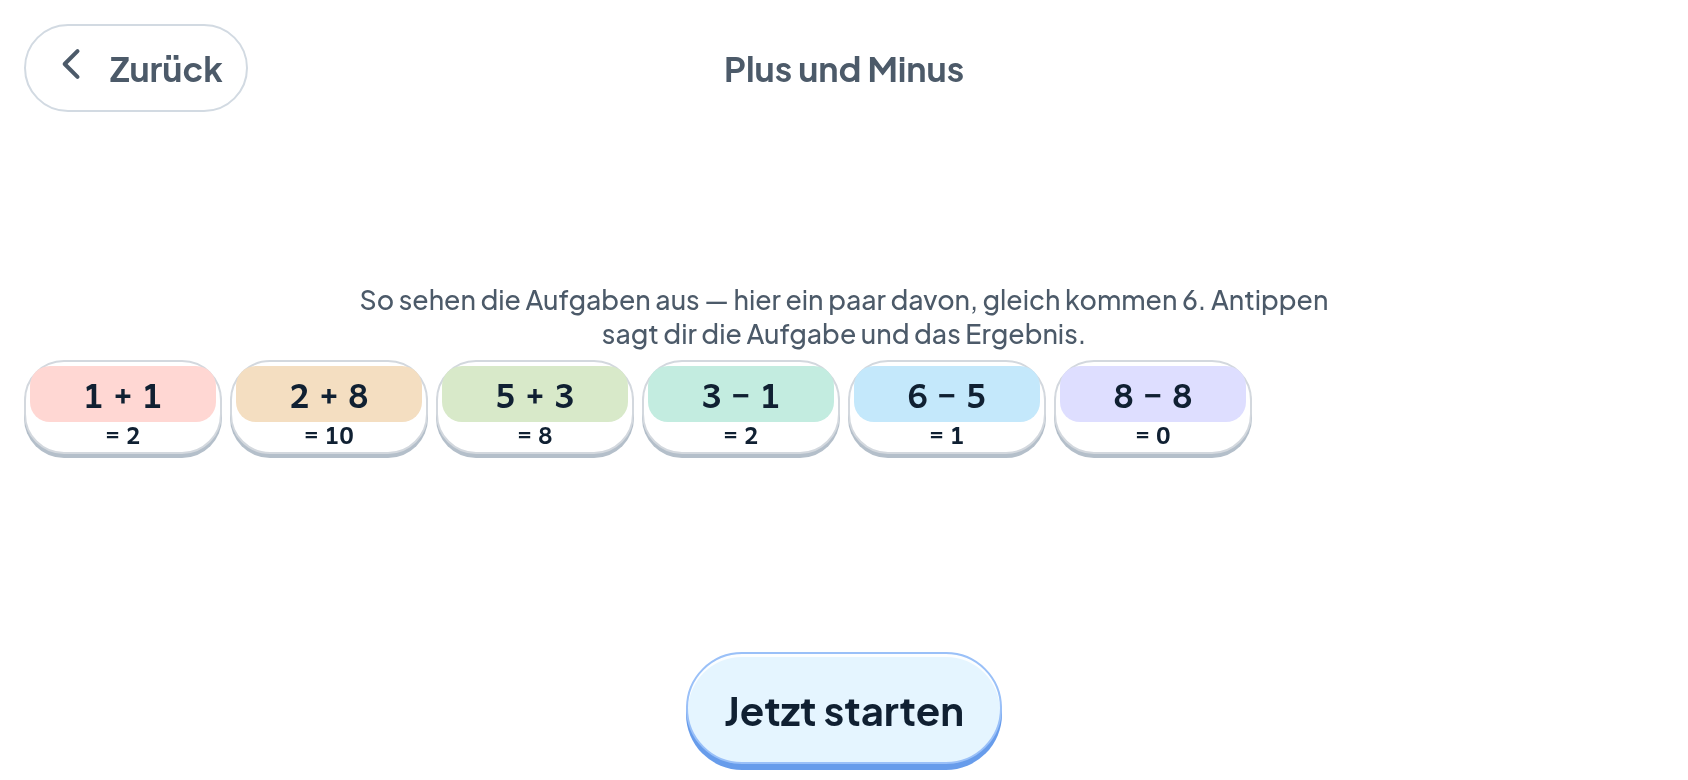
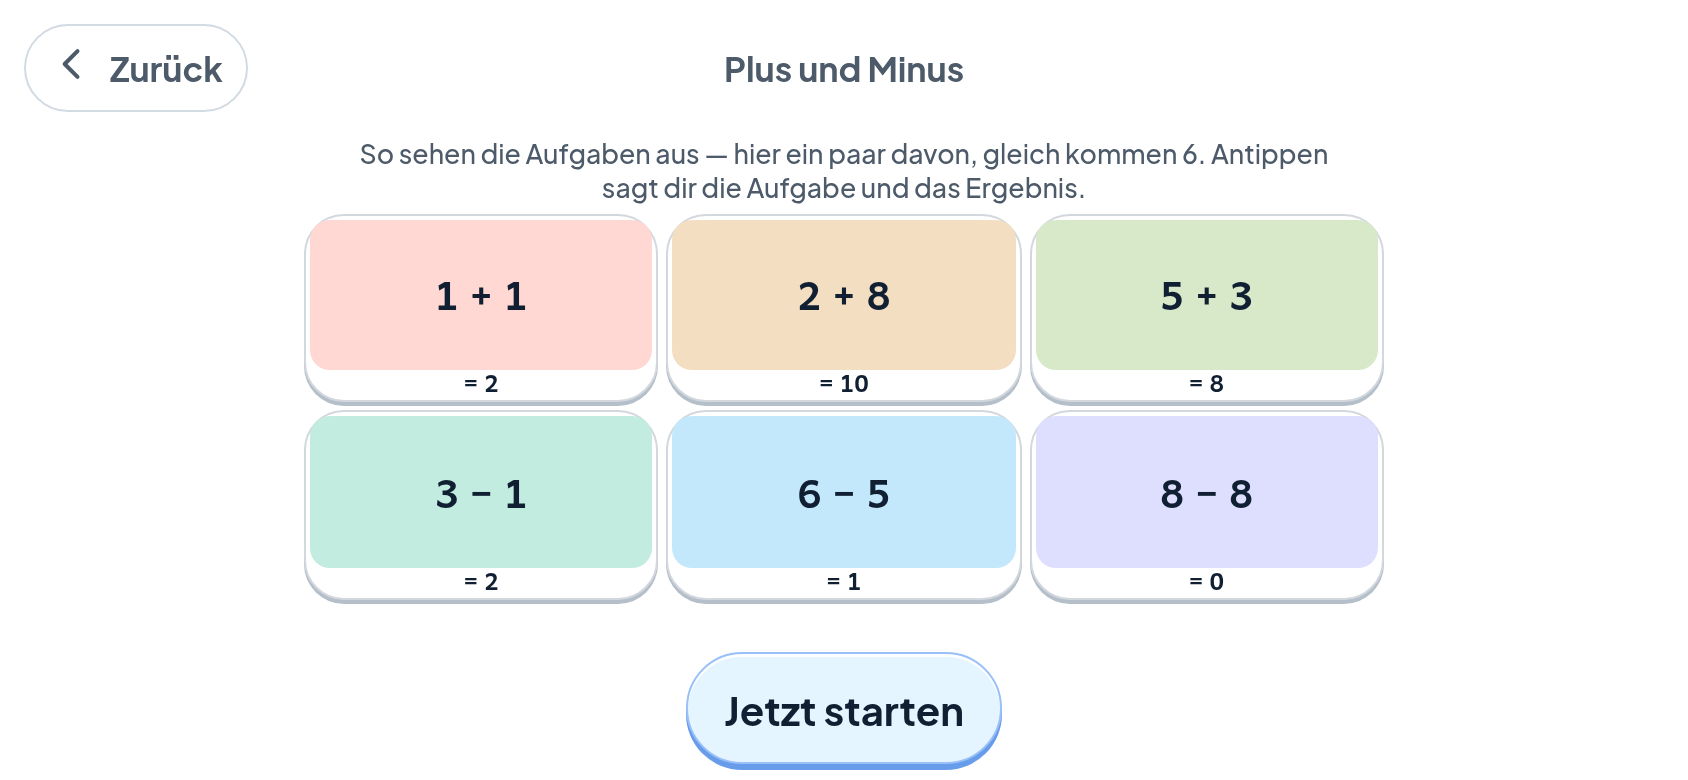
Was einmal geschafft war, bleibt geschafft — und der Vorlauf füllt sein Band
Aufkleber, Sterne, Fortschrittsbalken und Fionas zweite Kontinentrunde
lasen alle das LAUFENDE Leitner-Fach. Das faellt bei jeder falschen
Antwort auf 1 zurueck — richtig fuer die Wiederholung, falsch fuer alles,
was ueber die Vergangenheit spricht. Gemessen an einem Jahr Spiel (208
Sitzungen, vier die Woche, 85 % richtig):

  Aufkleber, die wieder aus dem Buch fielen   122 bis 251 je Ebene
  Sitzungen, in denen einer verschwand         47 bis 74 von 208
  Sitzungen mit wieder verschlossener Runde 2  47 von 208

Dazu meldete der Endbildschirm denselben Aufkleber ein zweites Mal als
neu. Jetzt traegt der Leitner-Stand `hoechstes`: die hoechste je
erreichte Fachhoehe, die nie faellt. Der Haken auf der Karte bleibt am
heutigen Fach — er sagt „sitzt", nicht „sass".

Und der Vorlauf: die Spaltenzahl kommt aus der Zahl der Karten, die
Reihen teilen sich die Hoehe des Bandes. Sechs Rechenaufgaben standen
linksbuendig in einer Reihe von acht Spuren, mit einem Loch von
vierhundert Punkten rechts und je einem Drittel leerem Band darueber und
darunter.

Claude-Session: https://claude.ai/code/session_01GwecUQxeRqJxKHLkGsVrjv

Changed region(s): [[0.0, 0.1846, 0.8318, 0.8]]

diff --git a/prototyp/vorlage.html b/prototyp/vorlage.html
@@ -188,10 +188,54 @@ body{background:linear-gradient(168deg,var(--grund) 0%,var(--grund-2) 100%);
    Stadtstaaten-Satz stand bei den Hauptstaedten halb ueber dem oberen
    Rand. `safe` faellt in dem Fall auf `flex-start` zurueck. */
 .rollen.vorlauf{display:flex;flex-direction:column;gap:var(--r3);
-  align-items:center;justify-content:safe center}
+  align-items:center;justify-content:safe center;
+  /* Die Hoechstmasse EINER Beispielkarte - ungefaehr quadratisch, die Form
+     eines Aufklebers. Das Gitter rechnet daraus seine eigenen
+     Hoechstmasse; gedeckelt wird also das Gitter, nicht die Karte. Der
+     Versuch, die Karte selbst zu deckeln, hat sie zum Einsturz gebracht:
+     mit `max-height` und `align-self:center` bemisst sich ein
+     Gitterkind an seinem Inhalt, und der Inhalt darf hier auf null
+     schrumpfen (`flex:1 1 0`). Uebrig blieben sechs flache Striche mit
+     uebereinanderliegender Schrift. */
+  --kleber-breit:180px;--kleber-hoch:168px}
 .rollen.vorlauf .mitte-satz{text-align:center;max-width:52ch}
-.rollen.vorlauf .kleber{grid-template-columns:repeat(auto-fill,minmax(104px,1fr));
-  gap:var(--r2);width:100%;max-width:900px}
+/* Wieviele Karten NEBENEINANDER, und wie hoch sie werden.
+ *
+ * Vorher stand hier eine feste kleinste Spaltenbreite und `auto-fill`. Das
+ * ist fuer sechzehn Bundeslaender richtig - sie fuellen die Breite in zwei
+ * Reihen - und fuer die sechs Beispielaufgaben einer Rechenebene falsch,
+ * gleich doppelt: `auto-fill` legt acht Spuren an, sechs davon werden
+ * belegt, und die Reihe stand LINKS mit einem Loch von vierhundert Punkten
+ * rechts. Darueber und darunter noch einmal je ein Drittel des Bandes leer.
+ * Es sah nicht nach Auswahl aus, sondern nach vergessenem Inhalt.
+ *
+ * Jetzt kommen beide Zahlen aus der Zahl der Karten:
+ *   `--spalten`  setzt der Bildschirm, abgeleitet aus `stuecke.length`
+ *                (zwei Reihen, hoechstens acht nebeneinander)
+ *   die Hoehe    teilt sich das Gitter selbst: `1fr` je Reihe, und das
+ *                Gitter nimmt sich den Rest des Bandes
+ *
+ * `max(88px, …)` ist die Notbremse fuer schmale Fenster: passen die
+ * gewuenschten Spalten nicht, legt `auto-fit` weniger an, statt
+ * ueberzulaufen. Was am Ende wirklich passt, sagt `passt`, nicht diese
+ * Rechnung. */
+.rollen.vorlauf .kleber{
+  grid-template-columns:repeat(auto-fit,minmax(max(88px,
+    calc(100% / var(--spalten,8) - var(--r2))),1fr));
+  /* `minmax(min-content,1fr)` und nicht `1fr`.
+     Die Spaltenzahl ist ein WUNSCH - auf einem schmalen Geraet legt
+     `auto-fit` weniger an, und dann gibt es mehr Reihen als `--reihen`
+     sagt. Mit nacktem `1fr` teilen sich diese Reihen trotzdem die Hoehe
+     fuer zwei: auf dem iPhone SE quer standen die dreizehn
+     Hauptstadtkarten in drei gequetschten Reihen, und der Name lag zwei
+     Punkte ausserhalb seiner Karte - `passt` hat es gemeldet. Mit
+     `min-content` als Untergrenze wird eine Reihe nie kleiner als ihr
+     Inhalt; uebrige Hoehe teilen sie sich weiterhin. */
+  grid-auto-rows:minmax(min-content,1fr);justify-content:center;
+  gap:var(--r2);width:100%;flex:1 1 auto;min-height:0;
+  max-width:min(900px, calc(var(--spalten,8) * var(--kleber-breit)));
+  max-height:calc(var(--reihen,2) * var(--kleber-hoch)
+                + (var(--reihen,2) - 1) * var(--r2))}
 /* Der Umriss nimmt sich den Platz, der uebrig ist.
  *
  * Die Zeilenhoehe des Gitters richtet sich nach der HOECHSTEN Karte -
@@ -209,9 +253,24 @@ body{background:linear-gradient(168deg,var(--grund) 0%,var(--grund-2) 100%);
  * war der falsche Schluss: dann wachsen die KARTEN, und die zweite Reihe
  * fiel unten heraus. Das Loch war nie zu wenig Bild, sondern schlecht
  * verteilter Platz - und dagegen hilft Zentrieren, nicht Wachsen. */
-.rollen.vorlauf .aufkleber{padding:var(--r1);justify-content:center}
-.rollen.vorlauf .aufkleber svg{height:38px}
-.rollen.vorlauf .aufkleber .rechenkleber{font-size:var(--s0)}
+/* Die Karte fuellt ihre Zeile, der Umriss fuellt die Karte.
+ *
+ * `min-height:0` an beiden: ohne das ist ein Flex-Kind mindestens so hoch
+ * wie sein Inhalt, und die zweite Reihe faellt unten heraus - genau der
+ * Fehlschlag, an dem der erste Versuch mit `flex:1` gescheitert ist. Der
+ * Unterschied ist, dass die Hoehe jetzt vom GITTER kommt (`1fr` je Reihe)
+ * und nicht vom Inhalt: sie kann das Band nicht ueberschreiten. */
+/* `min-height:0`, aber KEIN `overflow:hidden`.
+   Der Umriss darf mit der Zeile wachsen, dafuer ist `min-height:0` da.
+   Beschnitten werden darf hier aber nichts: „Sachsen-Anhalt" ist zwei
+   Punkte breiter als seine Karte und stand mit `overflow:hidden` als
+   „Sachsen-Anhal" da - auf einem Bildschirm, der genau diese Namen
+   beibringen soll. Der Name darf ueber den Rand ragen; abgeschnitten
+   lernt ihn niemand. */
+.rollen.vorlauf .aufkleber{padding:var(--r1);justify-content:center;
+  min-height:0}
+.rollen.vorlauf .aufkleber svg{flex:1 1 0;min-height:22px;height:auto}
+.rollen.vorlauf .aufkleber .rechenkleber{font-size:var(--s1);flex:1 1 0;min-height:0}
 /* Der Name wird hier UMGEBROCHEN, nicht abgeschnitten.
    Im Forscherbuch sind drei Punkte in Ordnung: dort steht, was man schon
    kennt. Hier soll das Kind den Namen LERNEN, und „Sachsen…" neben einem
@@ -835,12 +894,14 @@ code{font-family:ui-monospace,monospace;font-size:.9em;background:var(--linie);
      sechzehn Karten stehen auf dem Zielgeraet so wie so in zweien. Wie
      breit es sein darf, hat `passt` gesagt, nicht ich. */
   .rollen.vorlauf .kleber{gap:var(--r1);
-    grid-template-columns:repeat(auto-fill,minmax(88px,1fr))}
+    grid-template-columns:repeat(auto-fit,minmax(max(88px,
+      calc(100% / var(--spalten,8) - var(--r1))),1fr))}
   /* Ein Vorlauf mit Zuordnung traegt zwei Namen je Karte statt einem -
      „Mecklenburg-Vorpommern" unter „Schwerin". */
-  .rollen.vorlauf .kleber:has(.dazu){grid-template-columns:repeat(auto-fill,minmax(96px,1fr))}
+  .rollen.vorlauf .kleber:has(.dazu){grid-template-columns:repeat(auto-fit,minmax(max(96px,
+    calc(100% / var(--spalten,8) - var(--r1))),1fr))}
   .rollen.vorlauf .aufkleber{padding:var(--r0);gap:0;justify-content:center}
-  .rollen.vorlauf .aufkleber svg{height:22px}
+  .rollen.vorlauf .aufkleber svg{min-height:22px}
   .rollen.vorlauf .mitte-satz{font-size:calc(var(--s-klein) * 0.95)}
   .rollen.vorlauf .aufkleber span{font-size:calc(var(--s-klein) * 0.86)}
   .rollen.vorlauf .aufkleber .dazu{font-size:calc(var(--s-klein) * 0.78)}

diff --git a/prototyp/spiel.js b/prototyp/spiel.js
@@ -605,7 +605,12 @@ function kontinentRunde(stand){
   let r = 1;
   while (r < RUNDEN) {
     const bisher = D.kontinente.filter(k => k.runde <= r);
-    if (!bisher.every(k => Leitner.istGesessen(stand, k.id))) break;
+    // `warGesessen`, nicht `istGesessen`: eine Runde, die einmal offen war,
+    // geht nicht wieder zu. Gemessen ueber ein Jahr Spiel war Runde 2 an 47
+    // von 208 Sitzungen wieder verschlossen - Fiona setzte sich hin, und
+    // Asien und Nordamerika waren weg, weil sie eines davon zuletzt
+    // danebengeraten hatte.
+    if (!bisher.every(k => Leitner.warGesessen(stand, k.id))) break;
     r++;
   }
   return r;
@@ -961,6 +966,29 @@ function vorlaufVorrat(ebeneId){
   return alle.filter((_, i) => i % schritt === 0).slice(0, P.sitzung);
 }
 
+/* Wieviele Beispielkarten NEBENEINANDER stehen.
+ *
+ * Zwei Saetze, und der Rest folgt:
+ *   hoechstens ACHT in einer Reihe - mehr wird auf dem Zielgeraet zu schmal
+ *   ab vier Karten ZWEI Reihen, gleich lang - das Band ueber dem Knopf ist
+ *   hoch genug fuer zwei, und eine Reihe mit zwei Karten unter einer mit
+ *   acht sieht aus wie ein Rest, nicht wie eine zweite Reihe
+ *
+ * Sechzehn Bundeslaender stehen damit wie bisher acht und acht, sechs
+ * Rechenaufgaben drei und drei. Wie BREIT und HOCH eine Karte dabei werden
+ * darf, steht im Stilblatt; von hier bekommt es nur die beiden Zahlen, aus
+ * denen es die Hoechstmasse des Gitters rechnet.
+ *
+ * Vorher legte `auto-fill` immer acht Spuren an. Sechs Karten belegten
+ * sechs davon: die Reihe stand links, rechts blieb ein Loch von
+ * vierhundert Punkten, und darueber und darunter je ein Drittel leeres
+ * Band. Das sah nicht nach Auswahl aus, sondern nach vergessenem Inhalt.
+ */
+const vorlaufGitter = (n) => {
+  const reihen = n <= 3 ? 1 : Math.max(2, Math.ceil(n / 8));
+  return { reihen, spalten: Math.max(1, Math.ceil(n / reihen)) };
+};
+
 /** Der eine Satz, den dieser Vorlauf mitgibt. Abgeleitet, nicht gesammelt. */
 function vorlaufSatz(ebeneId){
   const [art, kont] = ebeneId.split(':');
@@ -995,6 +1023,7 @@ async function vorlauf(ebeneId){
   await standLaden(ebeneId);
   const ebene = EBENEN.find(e => e.id === ebeneId);
   const stuecke = vorlaufVorrat(ebeneId);
+  const gitter = vorlaufGitter(stuecke.length);
   const satz = vorlaufSatz(ebeneId);
   // Der eigene Rahmen zeigt das Stueck gross; nur wenn er sich aus dem
   // Pfad nicht rechnen laesst, faellt es auf den Rahmen der ganzen Karte
@@ -1005,7 +1034,7 @@ async function vorlauf(ebeneId){
     mitte:`<span class="marke">${ebene ? ebene.titel : 'Anschauen'}</span>` }) + `
     <div class="rollen vorlauf">
       <div class="unter mitte-satz">${satz}</div>
-      <div class="kleber">${stuecke.map((x, i) => `
+      <div class="kleber" style="--spalten:${gitter.spalten};--reihen:${gitter.reihen}">${stuecke.map((x, i) => `
         <button class="aufkleber da" data-lesen="${vorlaufAnsage(x, ebeneId)}"
                 title="${x.gebiet ? `${x.gebiet}: ${x.name}` : x.name}">
           ${x.pfad
@@ -1203,13 +1232,15 @@ function werten(ziel, ergebnis, versuch){
   const st = Sitzung;
   // Der richtige Ton fuer BEIDE Bildschirme, weil hier beide durchkommen.
   klangZu(ergebnis);
-  const fachVorher = Stand[ziel.id]?.fach ?? 1;
+  // Gefragt wird, ob der Gegenstand seinen Aufkleber HIER BEKOMMT - also am
+  // selben Mass, an dem das Buch ihn zeigt. Vorher stand hier das laufende
+  // Fach, und weil das zurueckfaellt, meldete der Endbildschirm denselben
+  // Aufkleber ein zweites und drittes Mal als "neu".
+  const hatteVorher = Leitner.istGesammelt(Stand, ziel.id);
   Stand = Leitner.verschieben(Stand, ziel.id, ergebnis === 'richtig', Date.now());
   if (ergebnis === 'richtig' && versuch === 1) st.glatt++;
   st.wie[st.i] = (ergebnis === 'richtig' && versuch === 1) ? 'glatt' : 'geschafft';
-  const fachDanach = Stand[ziel.id]?.fach ?? fachVorher;
-  const neuerAufkleber = fachVorher < Leitner.HAT_AUFKLEBER
-                      && fachDanach >= Leitner.HAT_AUFKLEBER;
+  const neuerAufkleber = !hatteVorher && Leitner.istGesammelt(Stand, ziel.id);
   if (neuerAufkleber) st.aufkleber++;
   standSichern(st.ebeneId);
   return neuerAufkleber;

diff --git a/src/kern/leitner.js b/src/kern/leitner.js
@@ -35,12 +35,45 @@ export function verschieben(stand, id, richtig, jetzt) {
   const fach = richtig ? Math.min(5, alt.fach + 1) : 1;
   return { ...stand, [id]: {
     fach,
+    // Die HOECHSTE je erreichte Fachhoehe. Sie faellt nie.
+    hoechstes: Math.max(hoechstes(stand, id), fach),
     faellig: jetzt + FAECHER[fach - 1].minuten * MINUTE,
     richtig: alt.richtig + (richtig ? 1 : 0),
     falsch: alt.falsch + (richtig ? 0 : 1),
     zuletzt: jetzt,
   }};
 }
+
+/* Zwei Zeitformen, nicht eine Zahl.
+ *
+ * `fach` ist der Stand VON JETZT: er faellt bei jeder falschen Antwort auf 1
+ * zurueck, und das ist die Wiederholungslogik selbst - daran wird nichts
+ * geaendert.
+ *
+ * Daraus wurde bis hierher aber auch alles abgeleitet, was ueber die
+ * VERGANGENHEIT spricht. Und das lief mit rueckwaerts. Gemessen an einem
+ * Jahr Spiel (208 Sitzungen, vier die Woche, 85 % richtig):
+ *
+ *   Aufkleber, die wieder aus dem Buch verschwanden   122 bis 251 je Ebene
+ *   Sitzungen, in denen mindestens einer verschwand   47 bis 74 von 208
+ *   Sitzungen, in denen Fionas zweite Kontinentrunde
+ *   wieder ZU war, obwohl sie schon offen gewesen war 47 von 208
+ *
+ * Ein Aufkleberalbum, aus dem Aufkleber wieder herausfallen, ist keins - und
+ * eine Sechsjaehrige, der Asien nach einer falschen Antwort wieder
+ * weggenommen wird, versteht das nicht als Wiederholung, sondern als Strafe.
+ * Obendrein meldete der Endbildschirm denselben Aufkleber ein zweites Mal
+ * als "neu".
+ *
+ * Deshalb `hoechstes`: die hoechste je erreichte Fachhoehe, die nie faellt.
+ * Was einmal geschafft war, bleibt geschafft.
+ *
+ * Alte Staende in der Ablage haben das Feld nicht. Fuer sie gilt das
+ * heutige Fach als Hoechststand - mehr ist aus dem Gespeicherten nicht zu
+ * holen, und es ist die vorsichtige Richtung: es nimmt niemandem etwas weg,
+ * was er heute sieht.
+ */
+const hoechstes = (stand, id) => stand[id]?.hoechstes ?? stand[id]?.fach ?? 1;
 
 export const istFaellig = (stand, id, jetzt) => !stand[id] || stand[id].faellig <= jetzt;
 
@@ -53,12 +86,20 @@ export const istFaellig = (stand, id, jetzt) => !stand[id] || stand[id].faellig 
  * kleinere davon zeichnete auf der Karte einen Haken, der im Forscherbuch
  * "sicher" bedeutet.
  *
- *   Fach 2  sass schon einmal  ->  volle Farbe und Haken auf der Karte
+ *   Fach 2  sitzt gerade      ->  volle Farbe und Haken auf der Karte
+ *   Fach 2  sass schon einmal  ->  die naechste Kontinentrunde ist offen
  *   Fach 3  Aufkleber          ->  steht im Forscherbuch
  *   Fach 5  sicher             ->  Siegel im Buch, zaehlt als gekonnt
+ *
+ * Und zwei Zeitformen: `ist...` fragt das heutige Fach, `war...` den
+ * Hoechststand. Der Haken auf der Karte sagt "sitzt", also jetzt - er darf
+ * verschwinden, das ist die Rueckmeldung. Alles, was etwas SCHENKT
+ * (Aufkleber, offene Runde), fragt den Hoechststand und nimmt nichts
+ * zurueck.
  */
 export const SITZT = 2;
 export const istGesessen = (stand, id) => (stand[id]?.fach ?? 1) >= SITZT;
+export const warGesessen = (stand, id) => hoechstes(stand, id) >= SITZT;
 export const istGekonnt = (stand, id) => (stand[id]?.fach ?? 1) >= 5;
 
 /**
@@ -73,7 +114,7 @@ export const istGekonnt = (stand, id) => (stand[id]?.fach ?? 1) >= 5;
  * oder zwei Sitzungen zu erreichen und bedeutet trotzdem etwas.
  */
 export const HAT_AUFKLEBER = 3;
-export const istGesammelt = (stand, id) => (stand[id]?.fach ?? 1) >= HAT_AUFKLEBER;
+export const istGesammelt = (stand, id) => hoechstes(stand, id) >= HAT_AUFKLEBER;
 
 function keimZufall(keim) {
   let s = keim >>> 0;
